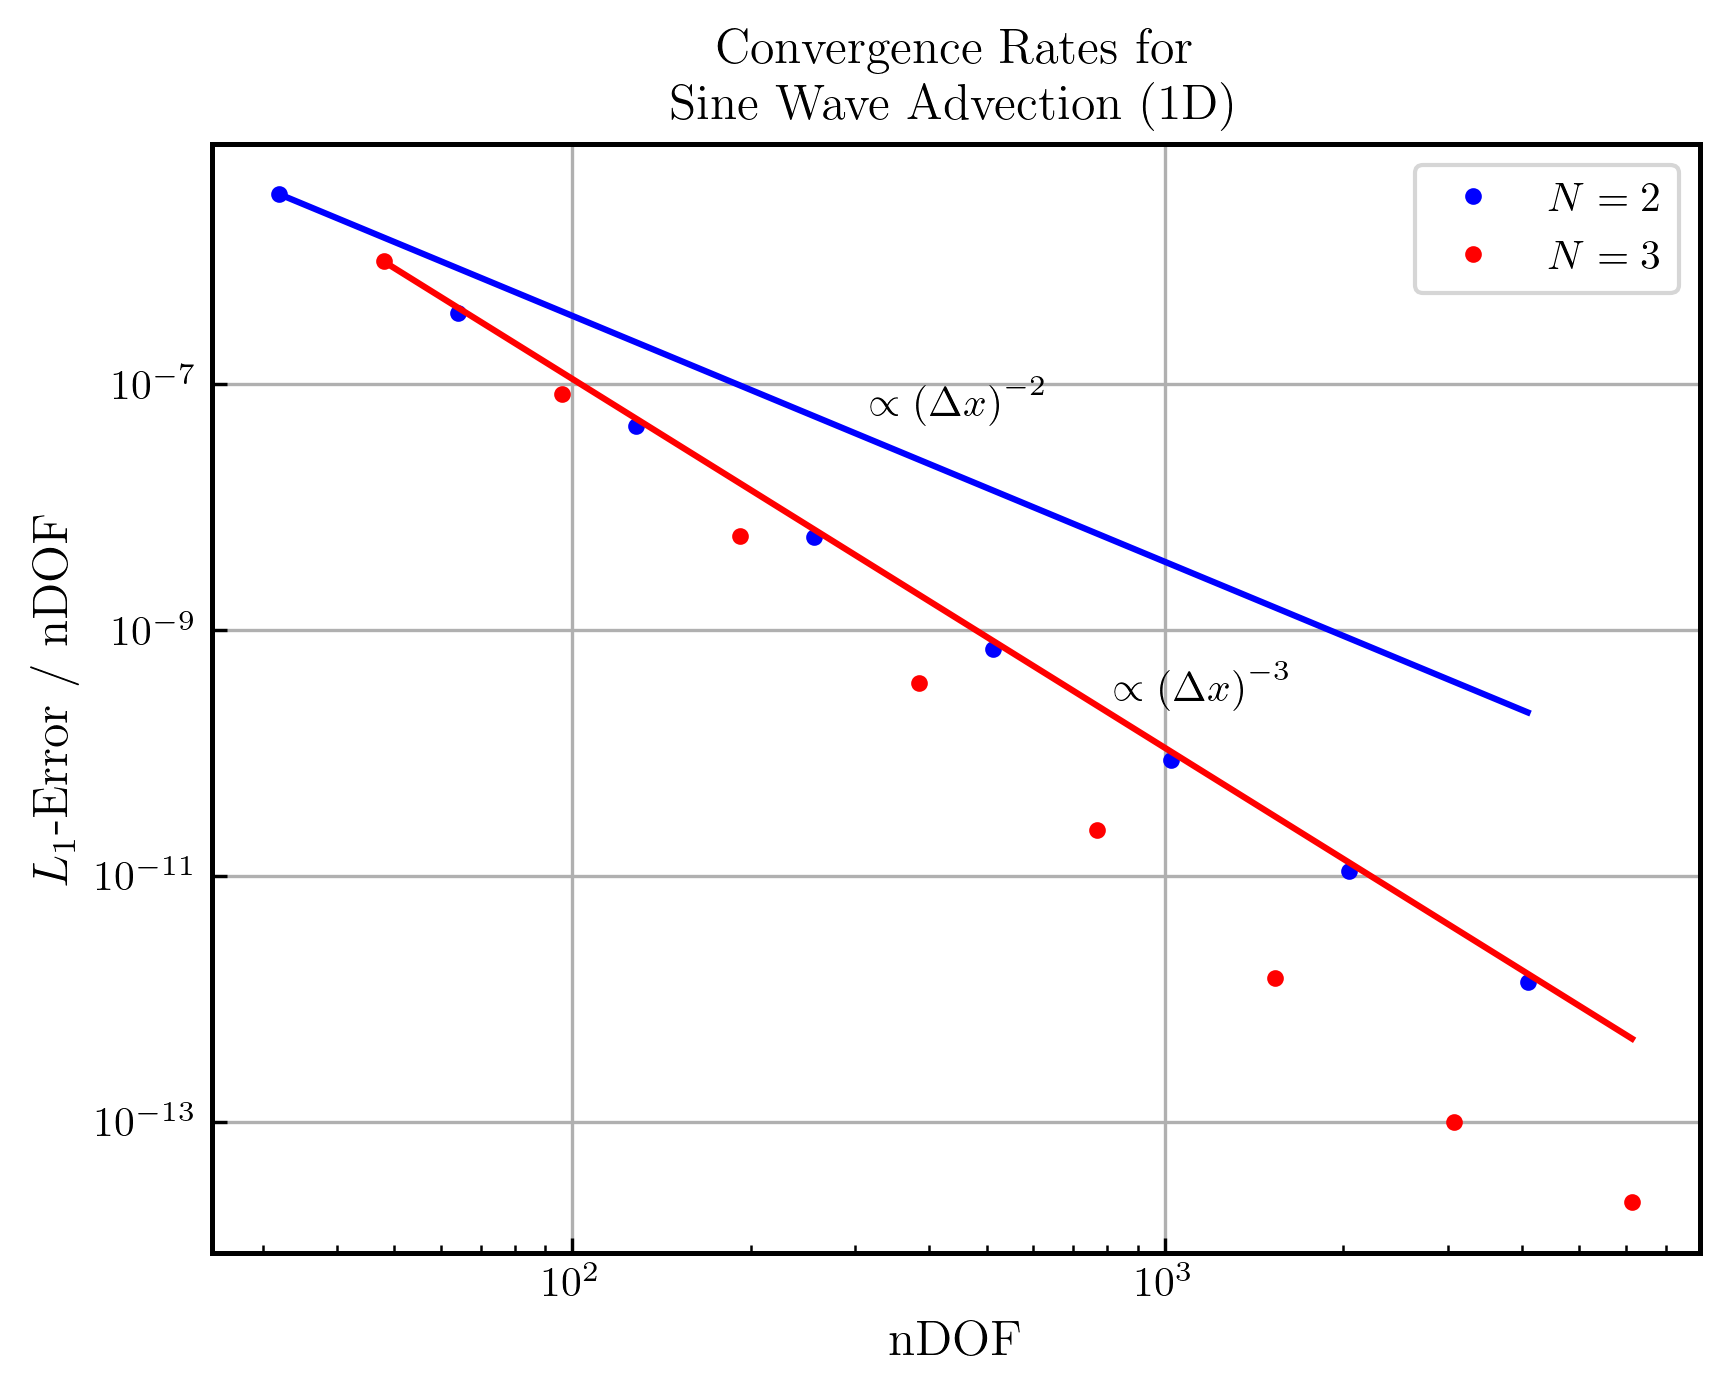
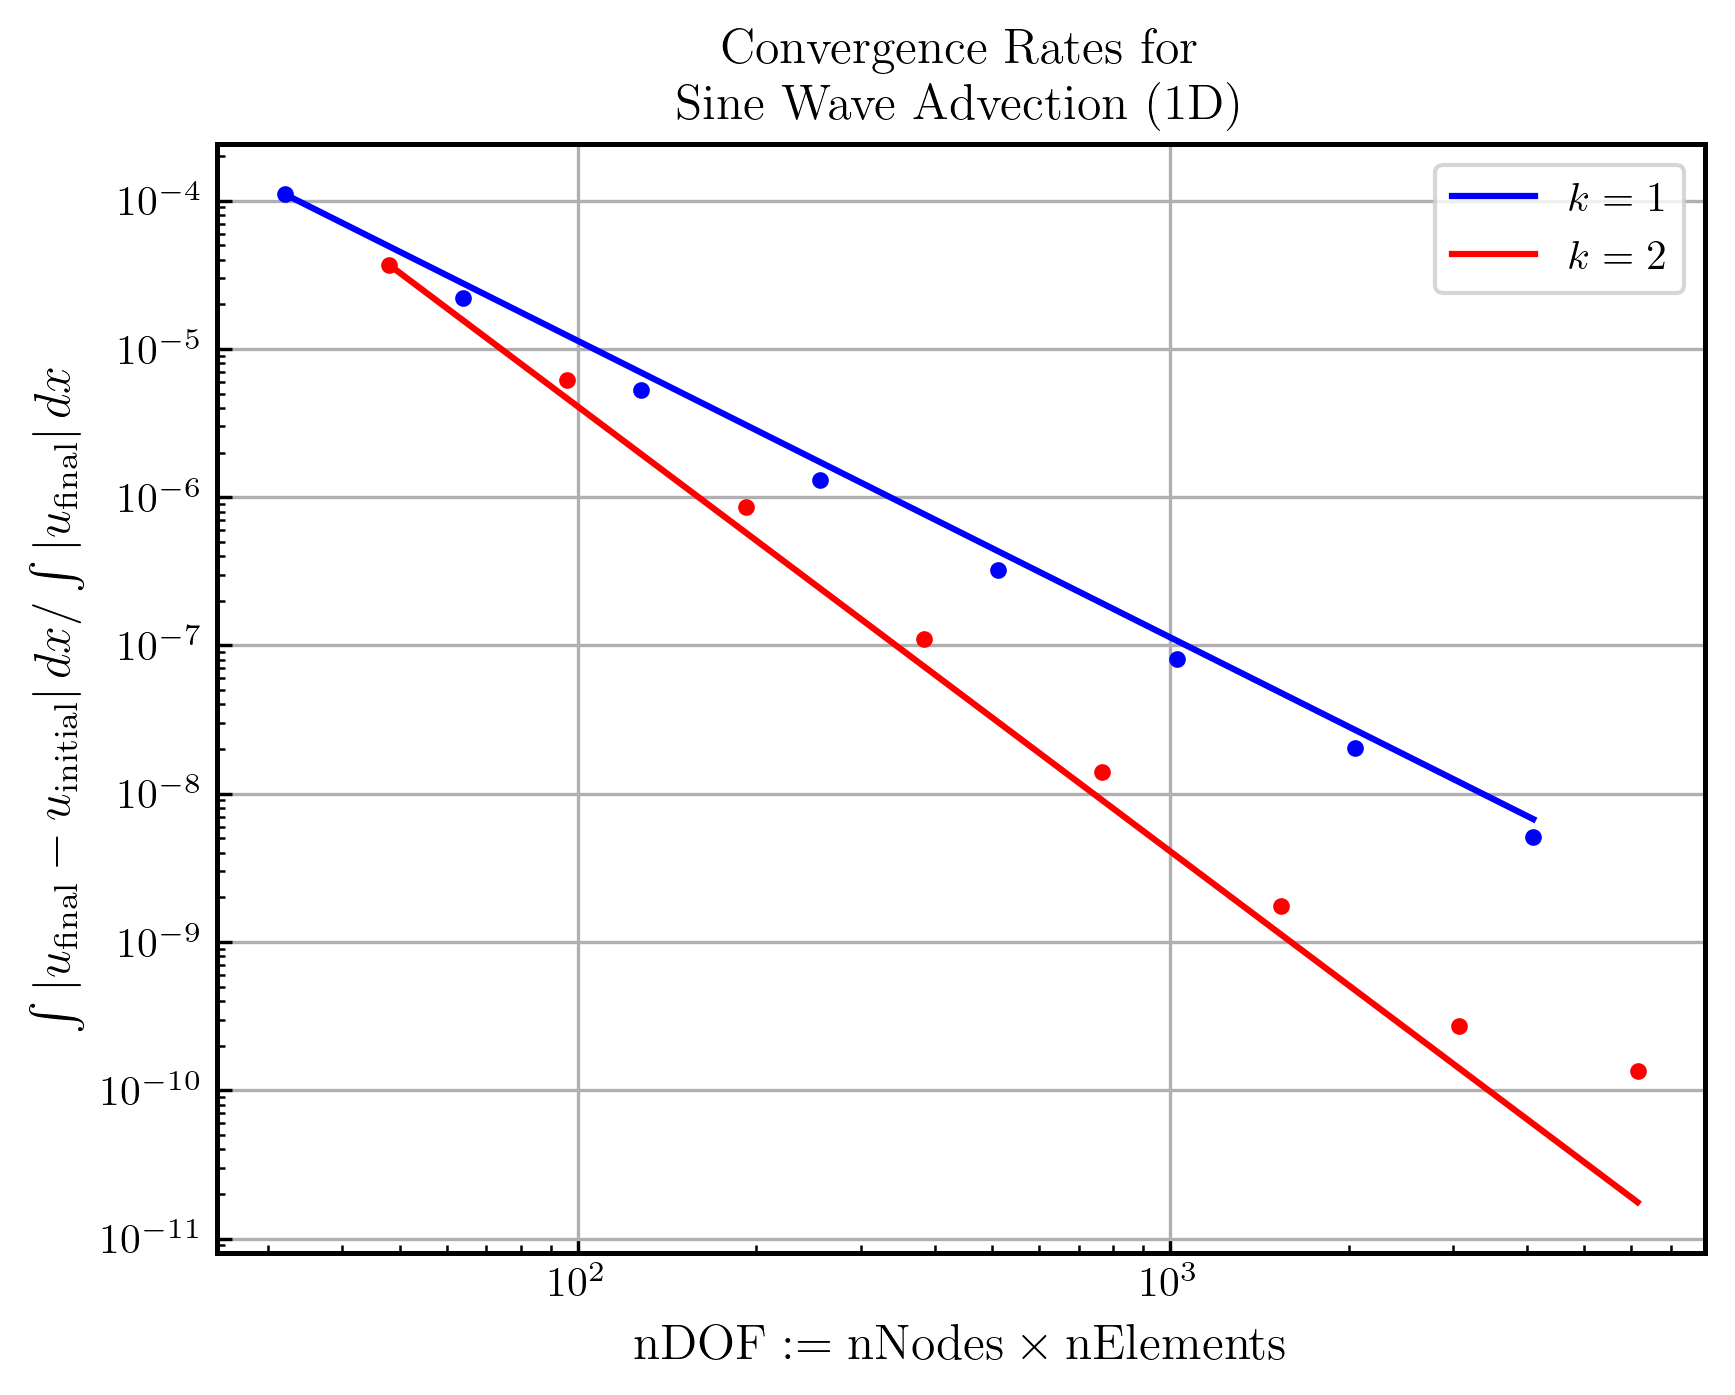
updates

diff --git a/computeL1Error.py b/computeL1Error.py
@@ -1,0 +1,134 @@
+#!/usr/bin/env python3
+
+import numpy as np
+import matplotlib.pyplot as plt
+plt.style.use( 'publication.sty' )
+
+from gaussxw import gaussxw
+
+nN = [ '02', '03' ]
+nX = [ '0016', '0032', '0064', '0128', '0256', '0512', '1024', '2048' ]
+
+wq2 = np.array( [ 1.0, 1.0 ], np.float64 ) / 2.0
+wq3 = np.array( [ 5.0, 8.0, 5.0 ], np.float64 ) / 18.0
+
+L1    = np.zeros( (len(nN),len(nX)), np.float64 )
+L2    = np.zeros( (len(nN),len(nX)), np.float64 )
+norm1 = np.zeros( (len(nN),len(nX)), np.float64 )
+norm2 = np.zeros( (len(nN),len(nX)), np.float64 )
+nDOF  = np.zeros( (len(nN),len(nX)), np.float64 )
+
+dN = 2
+
+def Lagrange( x, xq, i ):
+
+    L = 1.0
+
+    for j in range( xq.shape[0] ):
+
+        if j != i:
+
+            L *= ( x - xq[j] ) / ( xq[i] - xq[j] )
+
+    return L
+
+def rhoh( x, rho_q, xq ):
+
+    N = xq.shape[0]
+
+    rho = 0.0
+    for i in range( N ):
+        rho += rho_q[i] * Lagrange( x, xq, i )
+
+    return rho
+
+for i in range( len( nN ) ):
+
+    N = np.int64( nN[i] )
+
+    for j in range( len( nX ) ):
+
+        NX = np.int64( nX[j] )
+
+        fileName \
+          = 'convergenceRates/Advection1D_SineWaveX1_nN{:}_RK{:}_nX{:}' \
+             .format( nN[i], nN[i], nX[j] )
+
+        init = np.loadtxt( fileName + '_init.dat' )
+        finl = np.loadtxt( fileName + '_finl.dat' )
+
+        i_q = init[:,-N:]
+        f_q = finl[:,-N:]
+
+        i_qq = np.empty( (NX,N+dN), np.float64 )
+        f_qq = np.empty( (NX,N+dN), np.float64 )
+
+        xq , wq  = gaussxw( N   )
+        xqq, wqq = gaussxw( N+dN )
+
+        for k in range( NX ):
+            for ell in range( N+dN ):
+                i_qq[k,ell] = rhoh( xqq[ell], i_q[k], xq )
+                f_qq[k,ell] = rhoh( xqq[ell], f_q[k], xq )
+
+        dx = init[0,4]
+
+#        x_pp = np.empty( (NX,N+dN), np.float64 )
+#        xL = np.array( [ k*dx for k in range( NX ) ], np.float64 )
+#        xR = xL + dx
+#        xC = 0.5 * ( xL + xR )
+#
+#        for k in range( NX ):
+#            x_pp[k] = xC[k] + xqq * dx
+#        x_p = init[:,7:7+N]
+#
+#        plt.plot( x_pp.flatten(), i_qq.flatten(), label = 'N+dN' )
+#        plt.plot( x_p .flatten(), i_q .flatten(), label = 'N' )
+#        plt.legend()
+#        plt.show()
+#        exit()
+
+        d = f_qq - i_qq
+
+        nDOF[i,j] = N * NX
+
+        for k in range( d.shape[0] ):
+            L1   [i,j] += dx * np.sum( wqq * np.abs( d[k] ) )
+            L2   [i,j] += dx * np.sum( wqq * d[k]**2 )
+            norm1[i,j] += dx * np.sum( wqq * np.abs( f_qq[k] ) )
+            norm2[i,j] += dx * np.sum( wqq * f_qq[k]**2 )
+
+fig, ax = plt.subplots( 1, 1 )
+
+c = [ 'b', 'r' ]
+
+for i in range( len( nN ) ):
+
+    N = np.int64( nN[i] )
+
+    x = nDOF[i]
+    y1 = ( L1[i] / norm1[i] )**( 1.0 )
+    y2 = ( L2[i] / norm2[i] )**( 0.5 )
+
+    ax.loglog( x, y1, c[i] + '.' )
+    #ax.loglog( x, y2, c[i] + 'x', label = r'$L_{2}$' )
+    ax.loglog( x, y1[0] * 10**( - N * np.log10( x / x[0] ) ), c[i] + '-', \
+                label = r'$k={:d}$'.format( N-1 ) )
+
+ax.legend()
+
+ax.set_title( 'Convergence Rates for\nSine Wave Advection (1D)' )
+
+ax.grid()
+
+ax.set_xlabel( r'$\mathrm{nDOF}:=\mathrm{nNodes}\times\mathrm{nElements}$' )
+
+yLabel = r'$\int\left|u_{\mathrm{final}}-u_{\mathrm{initial}}\right|dx$' \
+           + r'$/\int\left|u_{\mathrm{final}}\right|dx$'
+ax.set_ylabel( yLabel )
+
+#plt.show()
+
+figName = 'fig.ConvergenceRates.png'
+plt.savefig( figName, dpi = 300 )
+print( '\n  Saved {:}'.format( figName ) )

diff --git a/DG_1D.py b/DG_1D.py
@@ -1,0 +1,150 @@
+#!/usr/bin/env python3
+
+import numpy as np
+import matplotlib.pyplot as plt
+plt.style.use( 'publication.sty' )
+from scipy.interpolate import interp1d
+
+from gaussxw import gaussxw
+
+NN = 10
+
+x = np.linspace( -0.5, +0.5, 100 )
+
+def Lagrange( x, xq, i ):
+
+    L = 1.0
+
+    for j in range( xq.shape[0] ):
+
+        if j != i:
+
+            L *= ( x - xq[j] ) / ( xq[i] - xq[j] )
+
+    return L
+
+def rhoh( x, rho_q, xq ):
+
+    N = xq.shape[0]
+
+    rho = 0.0
+    for i in range( N ):
+        rho += rho_q[i] * Lagrange( x, xq, i )
+
+    return rho
+
+def rhoExact( x ):
+    return 1.0 + x + x**2 + x**3 + x**4 + x**5
+
+def CreateElement():
+
+    fig, ax = plt.subplots( 1, 1 )
+
+    xticks = [ -0.5, -0.25, 0.0, +0.25, +0.5 ]
+    ax.set_xticks( xticks )
+
+    return fig, ax
+
+def ComputeMassMatrix( N ):
+
+    xqN, wqN = gaussxw( N  )
+    xq , wq  = gaussxw( NN )
+
+    M = np.zeros( (N,N), np.float64 )
+
+    for i in range( N ):
+        for j in range( N ):
+
+            Li = np.array( [ Lagrange( xq[q], xqN, i ) for q in range( NN ) ] )
+            Lj = np.array( [ Lagrange( xq[q], xqN, j ) for q in range( NN ) ] )
+
+            M[i,j] = np.sum( wq * Li * Lj )
+
+    return M
+
+def AddQuadraturePoints( ax, N, c ):
+
+    xq, wq = gaussxw( N )
+
+    rhoE = rhoExact( x )
+    a = 0.5 * ( rhoE.min() + rhoE.max() )
+    for i in range( N ):
+        ax.plot( xq[i], a, c + '.' )
+
+    return
+
+def AddFacePoints( ax ):
+
+    rhoE = rhoExact( x )
+    a = 0.5 * ( rhoE.min() + rhoE.max() )
+    ax.plot( -0.5, a, 'ks', mfc = 'None' )
+    ax.plot( +0.5, a, 'ks', mfc = 'None' )
+
+def PlotExact( fig, ax ):
+
+    rho = np.empty( (x.shape[0]), np.float64 )
+    for i in range( rho.shape[0] ):
+        rho[i] = rhoExact( x[i] )
+
+    vmin = rho.min()
+    vmax = rho.max()
+
+    ax.plot( x, rho, 'k-', label = 'Exact' )
+
+    return vmin, vmax
+
+def PlotDensity( N, fig, ax, vmin, vmax, c ):
+
+    rhoE = interp1d( x, rhoExact( x ) )
+
+    xqN, wqN = gaussxw( N  )
+    xq , wq  = gaussxw( NN )
+
+    intU = np.empty( N, np.float64 )
+
+    for i in range( N ):
+        intU[i] = np.sum( wq * rhoE( xq ) * Lagrange( xq, xqN, i ) )
+
+    M = ComputeMassMatrix( N )
+
+    rho_q = np.dot( np.linalg.inv( M ), intU )
+
+    rho = np.empty( (x.shape[0]), np.float64 )
+    for i in range( rho.shape[0] ):
+        rho[i] = rhoh( x[i], rho_q, xqN )
+
+    ax.plot( x, rho, c + '--', label = r'$N={:d}$'.format( N ) )
+    ax.plot( xqN, rho_q, c + 'x' )
+
+    return
+
+if __name__ == '__main__':
+
+    fig, ax = CreateElement()
+    vmin, vmax = PlotExact( fig, ax )
+    #AddFacePoints( ax )
+
+    N = 1
+    c = 'm'
+    PlotDensity( N, fig, ax, vmin, vmax, c )
+    AddQuadraturePoints( ax, N, c )
+
+    N = 2
+    c = 'r'
+    PlotDensity( N, fig, ax, vmin, vmax, c )
+    AddQuadraturePoints( ax, N, c )
+
+    N = 3
+    c = 'b'
+    PlotDensity( N, fig, ax, vmin, vmax, c )
+    AddQuadraturePoints( ax, N, c )
+
+    ax.legend()
+
+    #plt.show()
+
+    figName = 'fig.DG_1D.png'
+    plt.savefig( figName, dpi = 300 )
+    print( '\n  Saved {:}'.format( figName ) )
+
+    plt.close()

diff --git a/gaussxw.py b/gaussxw.py
@@ -1,0 +1,57 @@
+#!/usr/bin/env python3
+
+######################################################################
+#
+# Functions to calculate integration points and weights for Gaussian
+# quadrature
+#
+# x,w = gaussxw(N) returns integration points x and integration
+#           weights w such that sum_i w[i]*f(x[i]) is the Nth-order
+#           Gaussian approximation to the integral int_{-1}^1 f(x) dx
+# x,w = gaussxwab(N,a,b) returns integration points and weights
+#           mapped to the interval [a,b], so that sum_i w[i]*f(x[i])
+#           is the Nth-order Gaussian approximation to the integral
+#           int_a^b f(x) dx
+#
+# This code finds the zeros of the nth Legendre polynomial using
+# Newton's method, starting from the approximation given in Abramowitz
+# and Stegun 22.16.6.  The Legendre polynomial itself is evaluated
+# using the recurrence relation given in Abramowitz and Stegun
+# 22.7.10.  The function has been checked against other sources for
+# values of N up to 1000.  It is compatible with version 2 and version
+# 3 of Python.
+#
+# Written by Mark Newman <mejn@umich.edu>, June 4, 2011
+# You may use, share, or modify this file freely
+#
+######################################################################
+
+from numpy import ones,copy,cos,tan,pi,linspace, argsort
+
+def gaussxw(N):
+
+    # Initial approximation to roots of the Legendre polynomial
+    a = linspace(3,4*N-1,N)/(4*N+2)
+    x = cos(pi*a+1/(8*N*N*tan(a)))
+
+    # Find roots using Newton's method
+    epsilon = 1e-15
+    delta = 1.0
+    while delta>epsilon:
+        p0 = ones(N,float)
+        p1 = copy(x)
+        for k in range(1,N):
+            p0,p1 = p1,((2*k+1)*x*p1-k*p0)/(k+1)
+        dp = (N+1)*(p0-x*p1)/(1-x*x)
+        dx = p1/dp
+        x -= dx
+        delta = max(abs(dx))
+
+    # Calculate the weights
+    w = 2*(N+1)*(N+1)/(N*N*(1-x*x)*dp*dp)
+
+    ind = argsort( x )
+    x = 0.5 * copy( x[ind] )
+    w = 0.5 * copy( w[ind] )
+
+    return x, w

diff --git a/main.tex b/main.tex
@@ -122,31 +122,17 @@
 \begin{frame}
 \frametitle{Discontinuous Galerkin (DG)}
 
-  \vspace{-1em}
+  \Fontvi
 
   \begin{equation*}
-    u_{h}\left(x,y,t\right)
-    :=\sum\limits_{i=1}^{N}\sum\limits_{j=1}^{N}
-      u_{i,j}\left(t\right)\,\ell_{i}\left(x\right)\,\ell_{j}\left(y\right)
+    u_{h}\left(x,t\right)
+    :=\sum\limits_{i=1}^{N}
+      u_{i}\left(t\right)\,\ell_{i}\left(x\right)
   \end{equation*}
 
   \begin{figure}[htb!]
     \centering
-    \begin{minipage}{0.28\textwidth}
-      \includegraphics[width=\textwidth]%
-      {fig.DG_2D_N2.png}
-    \end{minipage}
-    \hfill
-    \begin{minipage}{0.28\textwidth}
-      \includegraphics[width=\textwidth]%
-      {fig.DG_2D_N3.png}
-    \end{minipage}
-    \hfill
-    \begin{minipage}{0.3\textwidth}
-      \includegraphics[width=\textwidth]%
-      {fig.DG_2D_Exact.png}
-    \end{minipage}
-    \hfill
+    \includegraphics[width=0.7\textwidth]{fig.DG_1D.png}
   \end{figure}
 
 \end{frame}

diff --git a/preamble.tex b/preamble.tex
@@ -95,5 +95,4 @@
 \usefonttheme[onlymath]{serif}
 
 % https://tex.stackexchange.com/questions/33969/changing-font-size-of-selected-slides-in-beamer
-\newcommand\Fontvi{\fontsize{7}{7.2}\selectfont}
-\newcommand\Fontbib{\fontsize{8}{8.2}\selectfont}
+\newcommand\Fontvi{\fontsize{8}{8.2}\selectfont}
